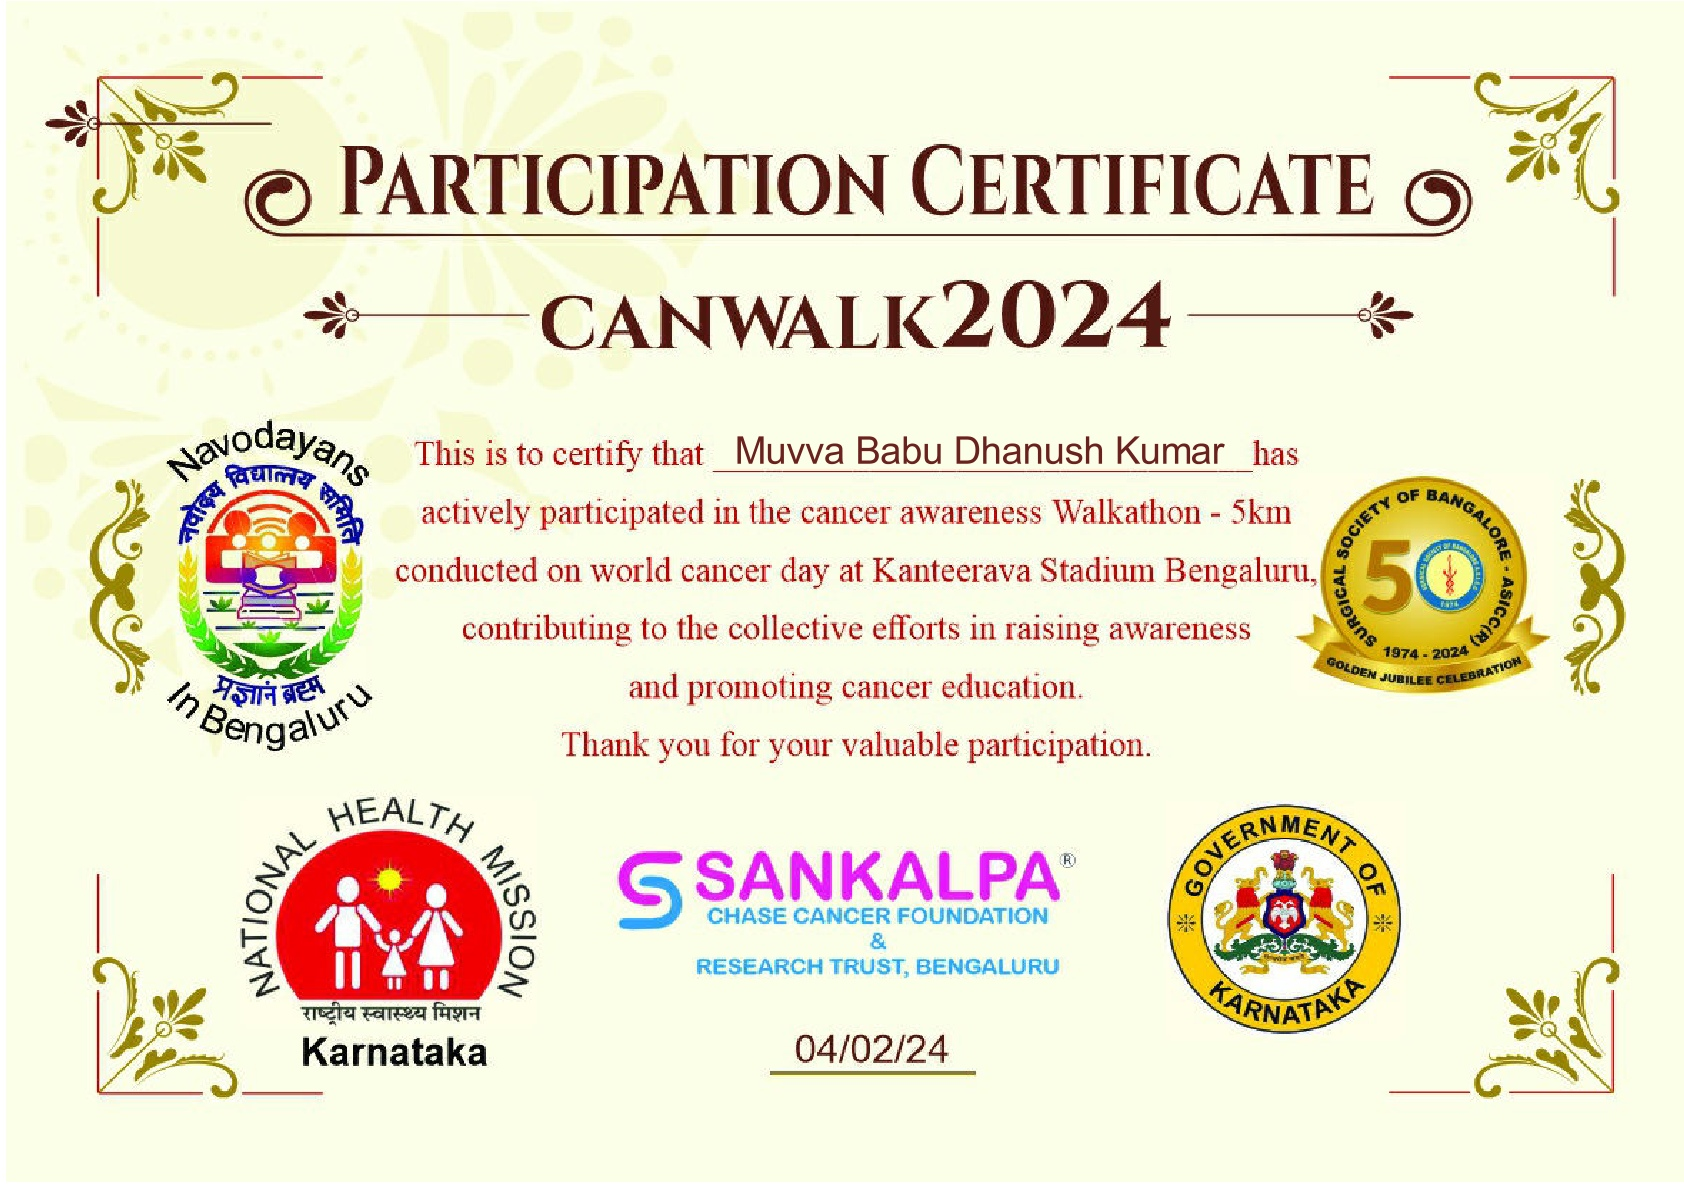
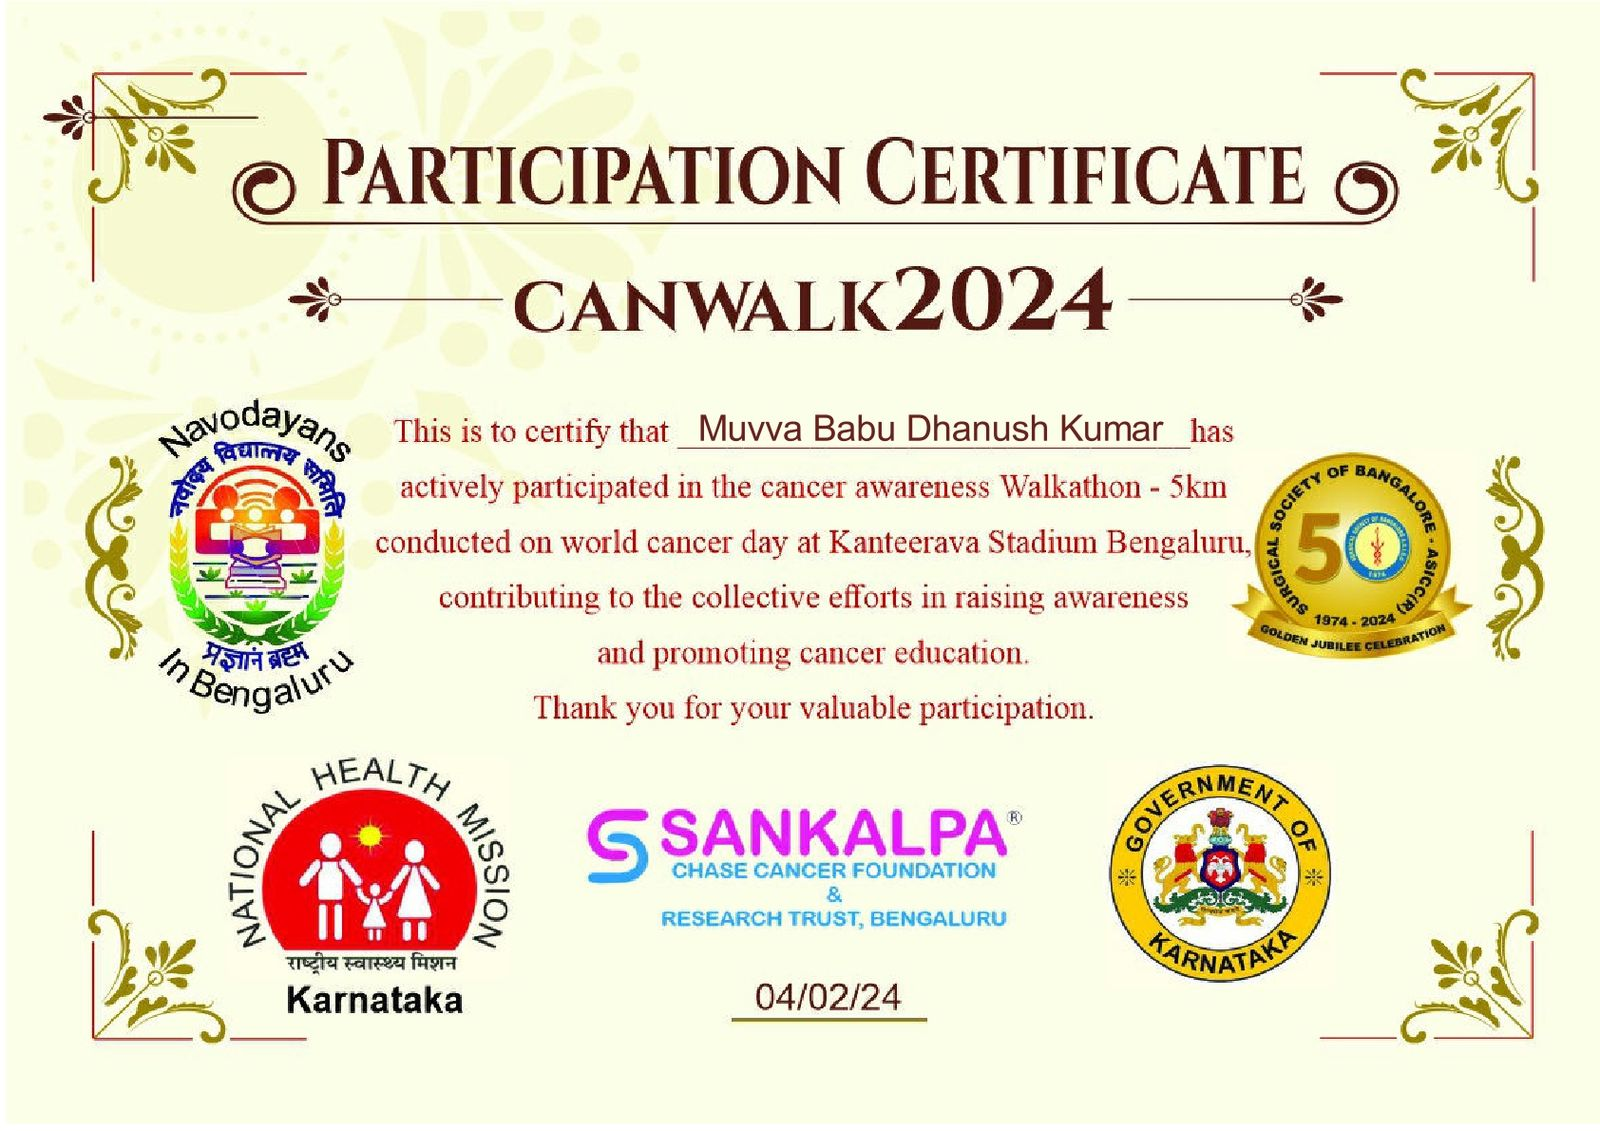
Remove internships duplicates, optimize images, and refine mobile layout

diff --git a/index.html b/index.html
@@ -236,32 +236,6 @@
 
             </div>
 
-            <h2 class="section-title" style="margin-top: 3rem;">Internships</h2>
-            <div class="internships-grid">
-                <div class="internship-card">
-                    <div class="internship-header">
-                        <h3>Intern</h3>
-                        <span class="internship-date">Jan 2026 - Present</span>
-                    </div>
-                    <p class="internship-company">Algoleap Technologies</p>
-                    <p class="internship-description">
-                        Contributed to software development projects and gained experience in professional coding
-                        practices, team collaboration, and software engineering best practices.
-                    </p>
-                </div>
-
-                <div class="internship-card">
-                    <div class="internship-header">
-                        <h3>AI - Data Quality Analyst</h3>
-                        <span class="internship-date">Feb 2025 - May 2025</span>
-                    </div>
-                    <p class="internship-company">Rooman Technologies</p>
-                    <p class="internship-description">
-                        Gained hands-on experience in data cleaning, modeling, visualization, and collaboration using
-                        Python and Agile practices. Worked on quality assurance for machine learning datasets.
-                    </p>
-                </div>
-            </div>
 
             <h2 class="section-title" style="margin-top: 3rem;">Certifications & Achievements</h2>
 

diff --git a/styles.css b/styles.css
@@ -606,17 +606,23 @@ body {
 
     /* Mobile Optimization for Education & Experience */
     .timeline-content {
-        padding: 1rem;
-        display: flex;
-        flex-direction: column;
+        padding: 1.5rem 1rem 1rem 1rem;
+        /* Added top padding for date space */
+        position: relative;
+        display: block;
+        /* revert back to block to avoid flex issues if any */
     }
 
     .timeline-date {
-        position: static;
+        position: absolute;
+        top: -12px;
+        /* Pull it slightly out of the box or flush with top */
+        right: 15px;
         transform: none;
-        align-self: flex-end;
-        margin-bottom: 0.5rem;
         width: auto;
+        font-size: 0.75rem;
+        /* Slightly smaller for mobile */
+        padding: 0.25rem 0.6rem;
     }
 
     .company-logo {

diff --git a/optimize_images.py b/optimize_images.py
@@ -1,0 +1,36 @@
+from PIL import Image
+import os
+import glob
+
+def optimize_images(directory):
+    print(f"Optimizing images in {directory}...")
+    # Get all jpg/jpeg/png files
+    files = glob.glob(os.path.join(directory, "*.[jJ][pP][gG]")) + \
+            glob.glob(os.path.join(directory, "*.[pP][nN][gG]")) + \
+            glob.glob(os.path.join(directory, "*.[jJ][pP][eE][gG]"))
+    
+    for file_path in files:
+        try:
+            # Check size
+            size_mb = os.path.getsize(file_path) / (1024 * 1024)
+            if size_mb < 0.5: # Skip if already small (< 500KB)
+                continue
+                
+            img = Image.open(file_path)
+            
+            # Resize if too large (max dimension 1600px)
+            max_size = 1600
+            if img.width > max_size or img.height > max_size:
+                img.thumbnail((max_size, max_size), Image.Resampling.LANCZOS)
+            
+            # Save smoothly
+            img.save(file_path, optimize=True, quality=80)
+            
+            new_size_mb = os.path.getsize(file_path) / (1024 * 1024)
+            print(f"Optimized {os.path.basename(file_path)}: {size_mb:.2f}MB -> {new_size_mb:.2f}MB")
+            
+        except Exception as e:
+            print(f"Error processing {file_path}: {e}")
+
+if __name__ == "__main__":
+    optimize_images(r"c:\Users\muvva\Downloads\NEW\Certificates")
